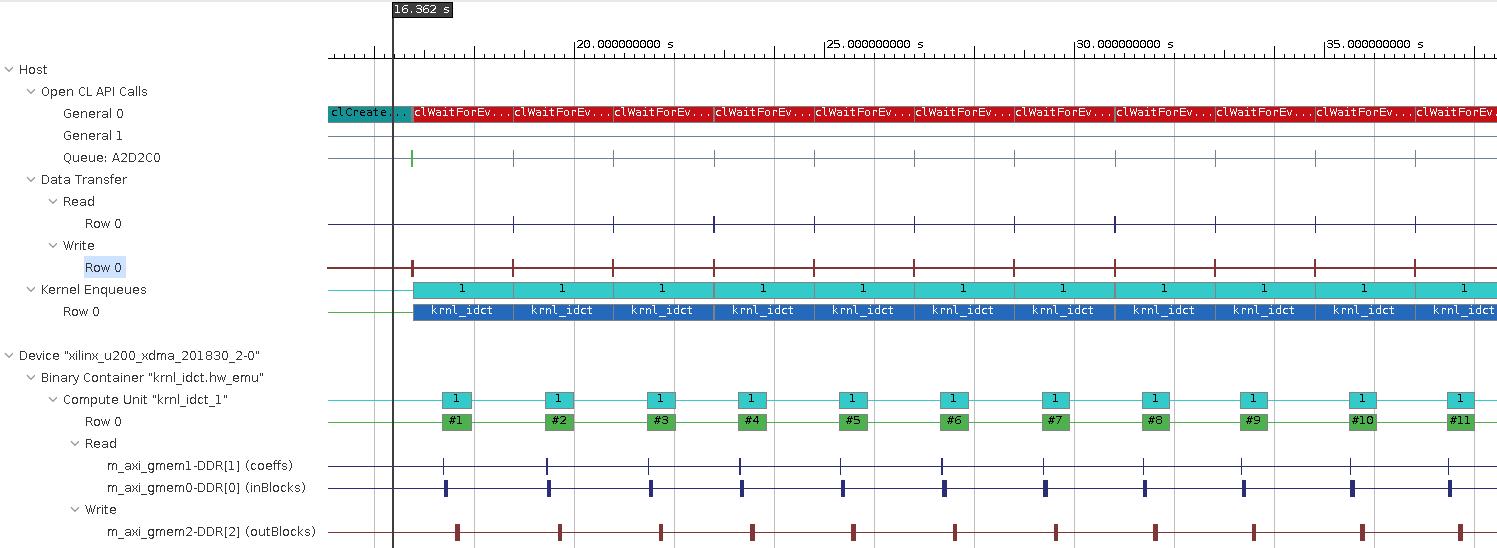
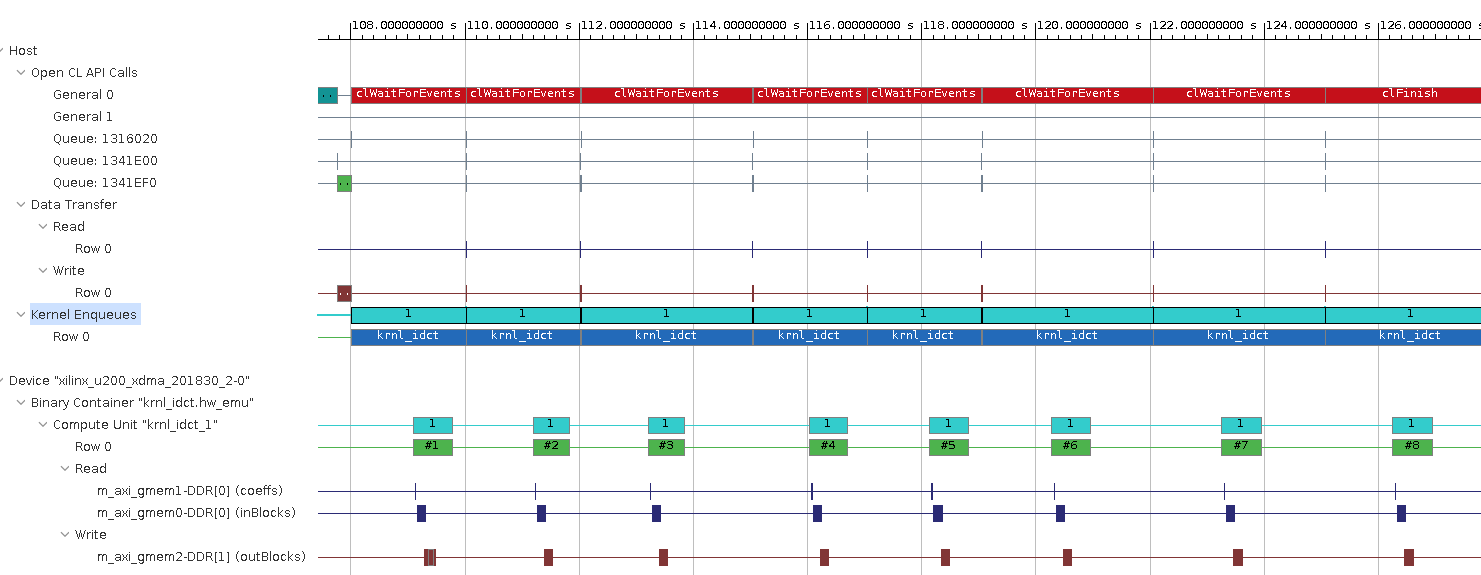
Finished vitis analyzer lab

diff --git a/modules/module_01/lab_03_vitis_analyzer.md b/modules/module_01/lab_03_vitis_analyzer.md
@@ -41,34 +41,50 @@ This number will serve as reference point to compare against after optimization.
 
 The Vitis v++ compiler also generates **HLS Reports** for each kernel. **HLS Reports** explain the results of compiling the kernel into hardware. It contains many details (including clocking, resources or device utilization) about the performance and logic usage of the custom-generated hardware. These details provide many insights to guide the kernel optimization process. We want to build an xclbin file ( FPGA Binary File) with four different kernels so there will be 4 different reports for each kernel   
 
-1. Locate the HLS reports:
+1.  Locate the HLS reports:
     ```bash
     cd $LAB_WORK_DIR/Vitis-AWS-F1-Developer-Labs/modules/module_01/idct/
     find . -name "*_csynth.rpt"
     ```
-This find command will return many results but the four reports of concern to us are:
-   
+    This find command will return many results but the four reports of concern to us are:
     ```bash
     ./build/reports/krnl_idct_noflow.hw_emu/hls_reports/krnl_idct_noflow_csynth.rpt
     ./build/reports/krnl_idct_med.hw_emu/hls_reports/krnl_idct_med_csynth.rpt
     ./build/reports/krnl_idct.hw_emu/hls_reports/krnl_idct_csynth.rpt
     ./build/reports/krnl_idct_slow.hw_emu/hls_reports/krnl_idct_slow_csynth.rpt
     ```
-These are Vitis HLS reports for kernels **krnl_idct** , **krnl_idct_med**, **krnl_idct_slow** and **krnl_idct_noflow**. We will have a look at these reports and the kernel sources to figure out the differences in terms of resources usage and performance.
-2. Open the **./build/reports/krnl_idct.hw_emu/hls_reports/krnl_idct_csynth.rpt** file, scroll to the **Performance Estimates** section, locate the **Latency (clock cycles)**  summary table and note the following performance numbers:
+    These are Vitis HLS reports for kernels **krnl_idct** , **krnl_idct_med**, **krnl_idct_slow** and **krnl_idct_noflow**. We will have a look at these reports and the kernel sources to figure out the differences in terms of resources usage and performance.
+1.  Open the **./build/reports/krnl_idct.hw_emu/hls_reports/krnl_idct_csynth.rpt** file, scroll to the **Performance Estimates** section, locate the **Latency (clock cycles)**  summary table and note the following performance numbers:
+    - Latency (min/max):
+    - Interval (min/max):
+    
+    These numbers reported in the table give performance expectation from the kernel in terms of clock cycles and also in time unites.
+  ![](../../images/module_01/lab_03_idct/synthReportHwEmu.png)
 
-  - Latency (min/max):
-  - Interval (min/max):
-  
-  These numbers reported in the table give performance expectation from the kernel in terms of clock cycles and also in time unites. Also from the same table under **Latency-Summary* note the pipeline type it should be "none".
-![](../../images/module_01/lab_03_idct/synthReportHwEmu.png)
-
-We will utilize hardware optimization namely dataflow in next labs and will come back and compare performance with these numbers..
-
-
+1. The next thing to look for in the same report is estimate for hardware resources used by this kernel on FPGA. Look for Utilization Estimates section, it should look similar to the following table:
+     ![](../../images/module_01/lab_03_idct/utilHwEmuIDCT.png)  
+    
+    From this table we can see resource usage for this kernel in absolute numbers and percentage. The main resources on the FPGA are Digital Signal Processing modules (DSPs), block RAM memory modules (BRAMs), Flip Flops (FFs) and Look up tables. You can note down these resources to compare with implementation of other hardware kernels.
+1. Next open the following report for kernel **kernel_idct_slow**:
+    ```bash
+   ./build/reports/krnl_idct_slow.hw_emu/hls_reports/krnl_idct_slow_csynth.rpt
+    ```
+    you can note down latency, interval and resource usage for this kernel it will be less than the kernel we saw earlier. This kernel is explicitly made to have larger latency at the advantage of using less resources. Next we will see how we have generated these two kernel with minor difference which is in terms of **HLS Pragma** that we have used for loop pipelining. To do this:
+     - first open file: 
+        ```bash
+        $LAB_WORK_DIR/Vitis-AWS-F1-Developer-Labs/modules/module_01/idct/src/krnl_idct.cpp
+        ```
+       and go near line no.296 which places a HLS pragma for loop pipelining and note down II constraint, which states that the loop body in which this pragma is placed should have an initiation interval of 2 which means back to back loop iteration should start within 2 cycle only.
+       
+   - now open file for seconds kernel:
+        ```bash
+        $LAB_WORK_DIR/Vitis-AWS-F1-Developer-Labs/modules/module_01/idct/src/krnl_idct_slow.cpp
+        ```
+     and go near line no.296 you will notice here the II constrains is 8, which mean back to back loop iterations within the body of which this constraint is placed should in 8 cycles. This room of 8 cycles allows Vitis HLS tool to share resource if possible and hence better resource utilization. Similarly you can have a look at third kernel namely **krnl_idct_med** which has II=4 constraint and compare resources. Generally increasing II can reduce resources but it may not be a linear relation depending on the design.
+       
 #### Application Timeline report
 
-In addition to the profile_summary_hw_emu.csv file, the emulation run also generates an timeline_trace_hw_emu.csv file in yhe `build` folder. This file give more details about full application behavior including the interactions and execution times on hardware side(FPGA Card). We can analyze this report for host side application issues and other things like looking at specific data transfer rates, kernel execution times for different enqueues. Essentially a timeline describing application lifetime with annotations for data transfer sizes, transfer times and bandwidth utilization. The timeline also gives even dependencies between different enqueued tasks such memory transfers and kernel execution. 
+In addition to the profile_summary_hw_emu.csv file, the emulation run also generates an timeline_trace_hw_emu.csv file in the `build` folder. This file gives more details about full application behavior including the interactions and execution times on hardware side(FPGA Card). We can analyze this report for host side application issues and other things like looking at specific data transfer rates, kernel execution times for different enqueues. Essentially a timeline describing application lifetime with annotations for data transfer sizes, transfer times and bandwidth utilization. The timeline also gives event dependencies between different enqueued tasks such as memory transfers and kernel execution. 
 
 Open the generated profile summary report generated
 ```
@@ -83,18 +99,17 @@ The **Application Timeline** collects and displays host and device events on a c
 Application Timeline has two distinct sections for **Host** and **Device**.
 
 ##### Host Application Timeline
-For IDCT application host side essentially manages data allocation, data movements and kernel invocations. It uses multiple OpenCL buffers that have data ready for device to be processes, it uses a pool of these buffers in a circular buffer style. This pool is checked for any buffers which have been used by device and new data is associated with these buffers as soon as possible. The timeline captures this behavior for IDCT application. The dependencies between data transfers and kernel execution are created in a fashion described follows:
+For IDCT application host side essentially manages data allocation, data movements and kernel invocations. It uses multiple OpenCL buffers that help to keep data ready for device to be processes during next kernel invocation, it uses a pool of these buffers based on a circular pointer. At the start host enqueues memory transfers and kernel enqueues using this pool of buffers an once this is exhausted, it is checked for any buffers which are free after being used by device and new data is associated with these buffers as soon as possible. The timeline captures this behavior for IDCT application. The dependencies between data transfers and kernel execution are created in a fashion described follows:
 
   * Data transfers from host to device global memory don't depend on anything and hence they can pretty much complete anytime before kernel execution which can be seen from application timeline
   * Kernel execution/enqueues depend on host to device data transfers and also on any kernel enqueue that was done right before this kernel, so they complete after related transfers and previous kernel enqueues.
-  * Transfers from host to device depend on kernel execution so they always complete after kernel enqueue calls done.
+  * Transfers from host to device depend on kernel execution so they always complete after kernel enqueue calls complete.
   
   All the **stated dependencies** can also be checked by clicking on any enqueue call it will **display arrow connections** which show dependencies as specified by application programmer on host side using **OpenCL APIs** while enqueuing different operations.
 
 ##### Device Execution Timeline    
-Device side timeline trace gives details of activity happening on the FPGA device or acceleration card. Here you can find actual hardware activity happening for different CUs, for IDCT we are using has only one instance of IDCT kernel so a single CU. All its interfaces to device global memory are traced out. In the case of IDCT it uses three separate interfaces two for co-efficient and input data and one interface for output data.
-* Go to device side timeline place the cursor close to first memory transfer or compute you will that even though we have three separate memory interface the transfers are happening sequentially, we will ponder about this phenomenon in latter labs to utilize this potential for performance improvement.
- ![](../../images/module_01/lab_03_idct/deviceMemTxNoOverlap.PNG)
+Device side timeline trace gives details of activity happening on the FPGA device or acceleration card. Here you can find actual hardware activity happening for different CUs, for IDCT we are using has only one instance of IDCT kernel so a single CU. All its interfaces to device global memory are traced out. In the case of IDCT it uses three separate interfaces two for co-efficient and input data and one interface for output data. You can zoom into one of the read/write transactions happening ond device master AXI interfaces as shown in the figure below and see how fast these data transfers are happening and in which sort of bursts. You can also note that since IDCT coefficients and input data use same DDR memory bank/interface and happen in non-overlapping fashion where as output write operation has some overlap with device read operation because it uses a separate DDR memory bank. In next labs we will see maximizing this kind of overlap considerably improve application performance.
+![](../../images/module_01/lab_03_idct/memTxHwEmuDevice.png) 
 
 ### Summary  
 
